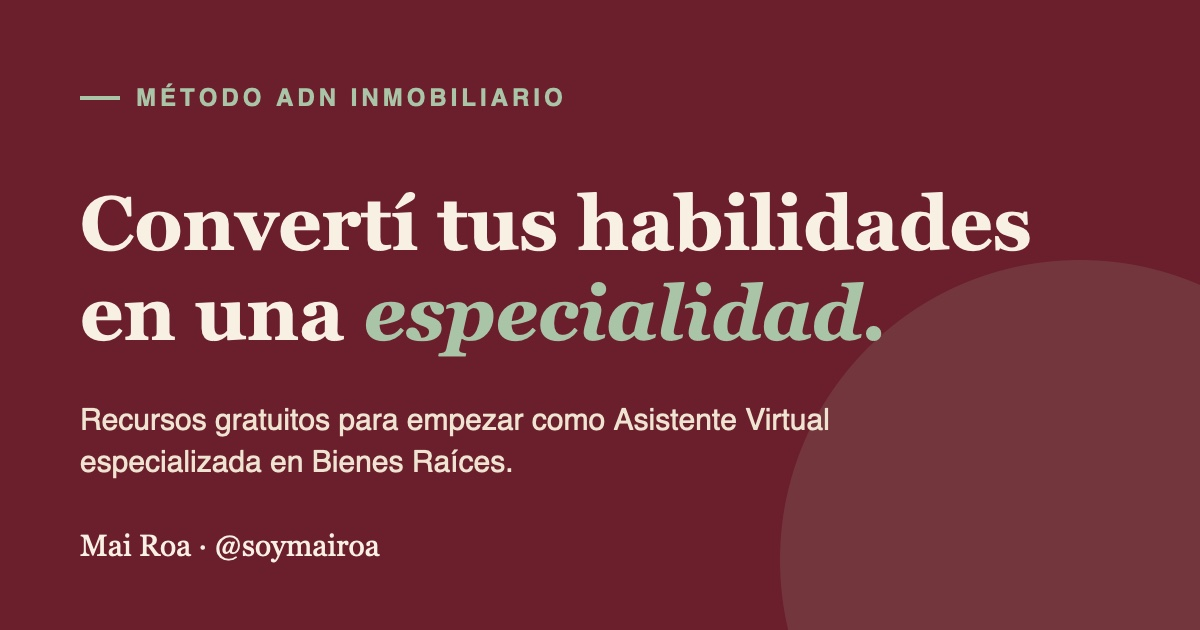
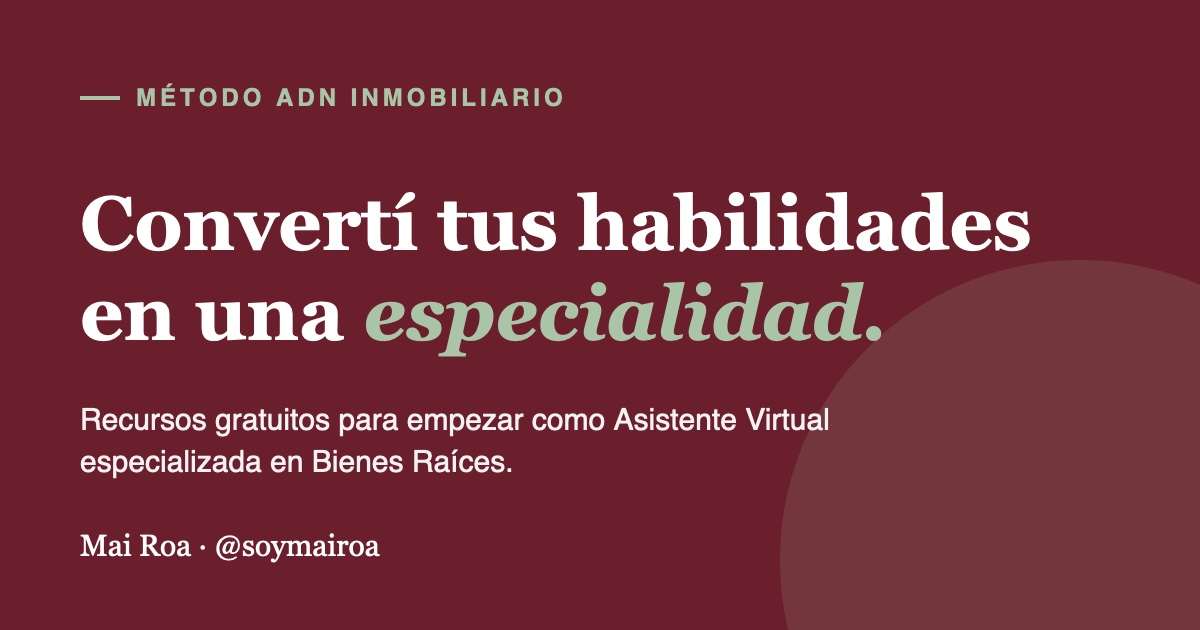
Cambiar color crema por blanco

diff --git a/styles.css b/styles.css
@@ -10,10 +10,10 @@
   --bordo-700: #5A1925;
   --bordo-100: #F2E2E0;
 
-  /* Crema — fondos y portada del manual */
-  --crema: #F7F0E3;
-  --crema-200: #EFE4D1;
-  --crema-300: #E3D2B6;
+  /* Blanco — fondos y portada del manual (reemplaza al crema) */
+  --crema: #FFFFFF;
+  --crema-200: #F4F3F3;
+  --crema-300: #E4E1E1;
 
   /* Verde — acentos */
   --verde: #3E6A50;
@@ -24,7 +24,7 @@
   /* Texto */
   --tinta: #2B1D1F;
   --tinta-suave: #5B4749;
-  --blanco: #FFFCF6;
+  --blanco: #FFFFFF;
 
   /* Tipografía */
   --serif: "Fraunces", Georgia, "Times New Roman", serif;
@@ -122,7 +122,7 @@ em { font-style: italic; }
 .btn--claro { --btn-bg: var(--crema); --btn-color: var(--bordo); --btn-borde: var(--crema); }
 .btn--claro:hover { --btn-bg: var(--blanco); --btn-borde: var(--blanco); }
 .btn--contorno-claro { --btn-bg: transparent; --btn-color: var(--crema); --btn-borde: var(--crema); }
-.btn--contorno-claro:hover { --btn-bg: rgba(247, 240, 227, .12); }
+.btn--contorno-claro:hover { --btn-bg: rgba(255, 255, 255, .12); }
 .btn--chico { min-height: 42px; padding: 8px 20px; font-size: .95rem; }
 .btn--ancho { width: 100%; }
 .btn[disabled] { cursor: progress; opacity: .8; transform: none; box-shadow: none; }
@@ -150,7 +150,7 @@ em { font-style: italic; }
 /* ---------- 1. Encabezado ---------- */
 .encabezado {
   position: sticky; top: 0; z-index: 50;
-  background: rgba(247, 240, 227, .94);
+  background: rgba(255, 255, 255, .94);
   -webkit-backdrop-filter: saturate(140%) blur(10px);
   backdrop-filter: saturate(140%) blur(10px);
   border-bottom: 1px solid transparent;
@@ -207,7 +207,7 @@ em { font-style: italic; }
 .hero::before {
   content: ""; position: absolute; z-index: -1;
   width: 520px; height: 520px; right: -220px; top: -160px; border-radius: 50%;
-  background: radial-gradient(circle, var(--crema-200) 0%, rgba(239, 228, 209, 0) 70%);
+  background: radial-gradient(circle, var(--crema-200) 0%, rgba(244, 243, 243, 0) 70%);
 }
 .hero__grilla { display: grid; gap: 48px; }
 .hero__titulo { font-size: clamp(2.5rem, 11vw, 4.4rem); color: var(--bordo); margin-top: 18px; }
@@ -322,7 +322,7 @@ em { font-style: italic; }
 .portada--tareas .portada__pie { color: var(--tinta-suave); }
 
 .portada--ruta { background: var(--bordo); color: var(--crema); transform: rotate(2deg); }
-.portada--ruta .portada__cinta { background: rgba(247, 240, 227, .14); color: var(--crema); }
+.portada--ruta .portada__cinta { background: rgba(255, 255, 255, .14); color: var(--crema); }
 .portada--ruta .portada__titulo { font-size: 1.12rem; margin-top: 14px; }
 .portada__camino {
   position: relative; flex: 1; margin: 14px 4px 10px;
@@ -380,7 +380,7 @@ em { font-style: italic; }
 .manual__datos {
   margin: 28px 0 0; padding: 18px 20px;
   display: grid; gap: 10px;
-  border: 1px solid rgba(247, 240, 227, .25); border-radius: var(--radio);
+  border: 1px solid rgba(255, 255, 255, .25); border-radius: var(--radio);
   background: rgba(0, 0, 0, .12);
 }
 .manual__datos[hidden], .manual__datos [hidden] { display: none; }
@@ -396,7 +396,7 @@ em { font-style: italic; }
 .pago__aviso { margin-top: 10px; font-size: .95rem; color: var(--crema); }
 .pago__aviso:not(:empty) {
   padding: 12px 14px; border-radius: 10px;
-  background: rgba(247, 240, 227, .1); border-left: 3px solid var(--verde-300);
+  background: rgba(255, 255, 255, .1); border-left: 3px solid var(--verde-300);
 }
 
 @keyframes latido { 50% { opacity: .35; } }
@@ -477,7 +477,7 @@ em { font-style: italic; }
 
 .spinner {
   display: none; width: 18px; height: 18px; border-radius: 50%;
-  border: 2.5px solid rgba(247, 240, 227, .4); border-top-color: var(--crema);
+  border: 2.5px solid rgba(255, 255, 255, .4); border-top-color: var(--crema);
   animation: girar .8s linear infinite;
 }
 .btn.cargando .spinner { display: inline-block; }

diff --git a/index.html b/index.html
@@ -273,7 +273,7 @@
 
       <!-- Vista: éxito -->
       <div class="modal__exito" id="vistaExito" hidden>
-        <svg class="modal__exito-icono" viewBox="0 0 48 48" width="48" height="48" aria-hidden="true" focusable="false"><circle cx="24" cy="24" r="23" fill="currentColor"/><path d="M14 25l7 7 13-14" fill="none" stroke="#F7F0E3" stroke-width="3.4" stroke-linecap="round" stroke-linejoin="round"/></svg>
+        <svg class="modal__exito-icono" viewBox="0 0 48 48" width="48" height="48" aria-hidden="true" focusable="false"><circle cx="24" cy="24" r="23" fill="currentColor"/><path d="M14 25l7 7 13-14" fill="none" stroke="#FFFFFF" stroke-width="3.4" stroke-linecap="round" stroke-linejoin="round"/></svg>
         <p class="modal__exito-texto" id="textoExito" tabindex="-1"></p>
         <a class="btn btn--primario btn--ancho" id="botonDescarga" href="#" download>Descargar ahora</a>
       </div>

diff --git a/README.md b/README.md
@@ -172,8 +172,8 @@ Hacé cada prueba **en el celular y en la computadora**. En el celular, probá t
 |---|---|
 | Bordó (principal) | `#6B1E2C` |
 | Bordó oscuro | `#4A1420` |
-| Crema (fondos) | `#F7F0E3` |
-| Crema oscuro | `#EFE4D1` |
+| Blanco (fondos) | `#FFFFFF` |
+| Gris muy claro (fondos secundarios) | `#F4F3F3` |
 | Verde (acentos) | `#3E6A50` |
 | Verde claro | `#A9C4A6` |
 
